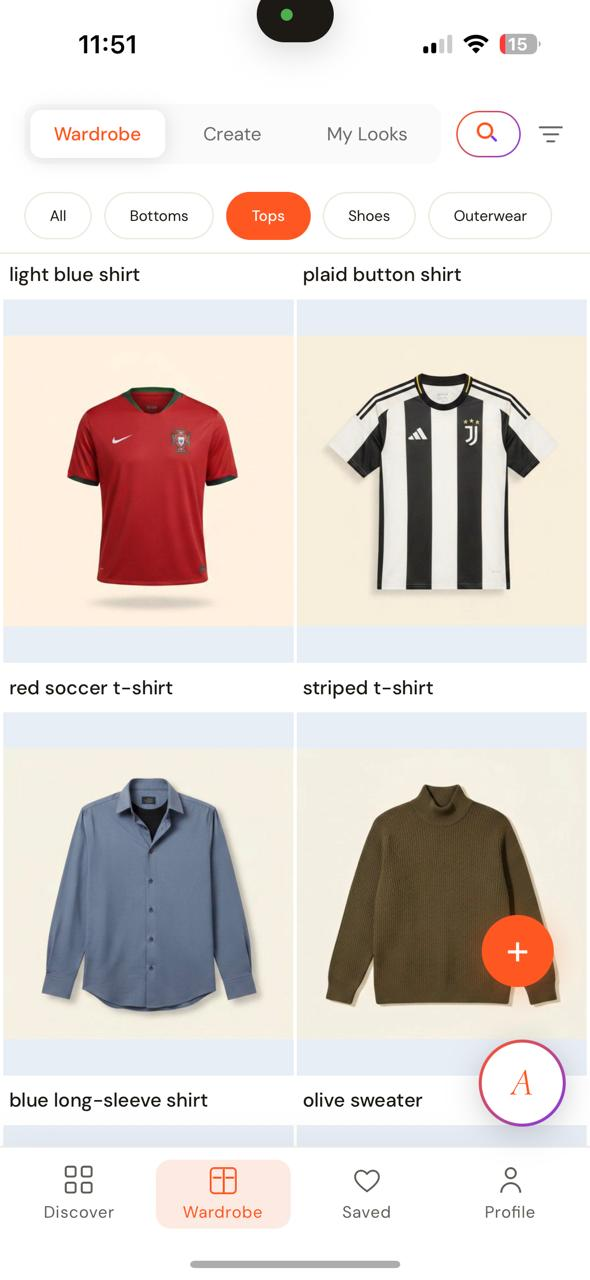
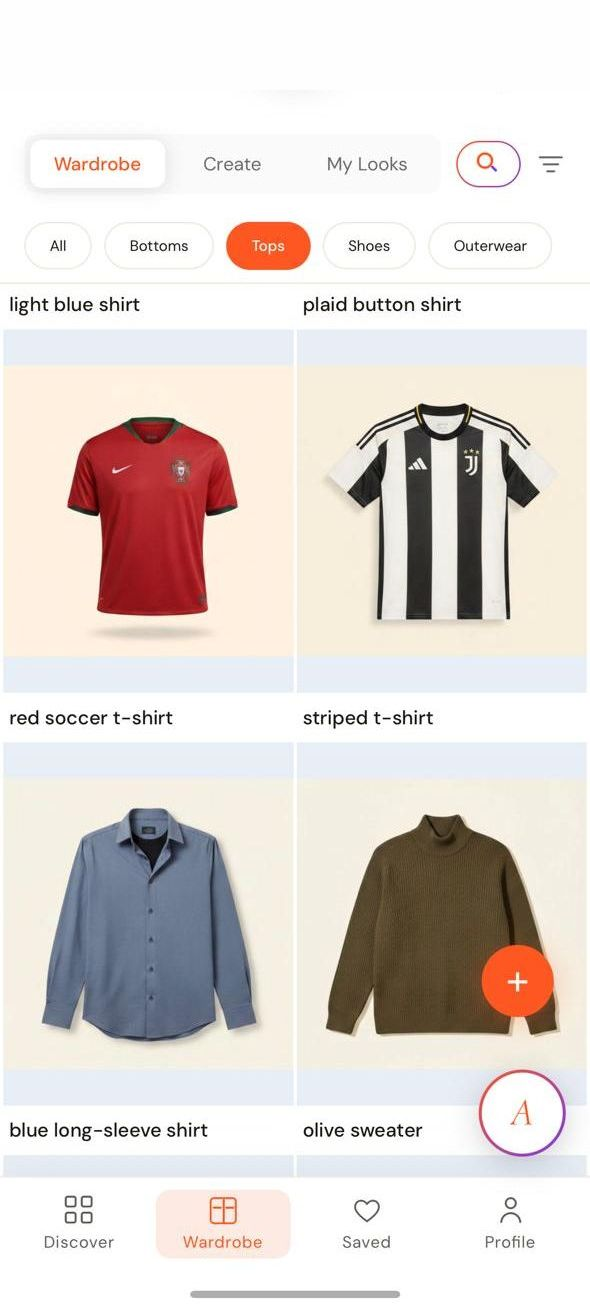
Uniform Dynamic Island across feature-section screenshots
The five app screenshots were captured on different devices, so their baked-in
chrome was inconsistent (3 had no notch, Wardrobe a small Dynamic Island, Aira a
large one inside a full device bezel).

- Add scripts/crop-shots.js: crops the baked-in status bar / island / bezel off
  each master in assets/raw/ and pads the top back with the screenshot's own color,
  writing the result to assets/. Re-runnable from masters (crops never compound).
- Draw one uniform Dynamic Island in CSS (.device__screen::after) that floats over
  every screen identically.
- Cache-bust: device-shot images ?v=2, styles.css ?v=26; fix img width/height.

diff --git a/index.html b/index.html
@@ -32,7 +32,7 @@
   <link rel="preconnect" href="https://fonts.googleapis.com" />
   <link rel="preconnect" href="https://fonts.gstatic.com" crossorigin />
   <link href="https://fonts.googleapis.com/css2?family=Cormorant+Garamond:ital,wght@0,300;0,400;0,500;0,600;0,700;1,400;1,500;1,600;1,700&family=DM+Sans:opsz,wght@9..40,200;9..40,300;9..40,400;9..40,500;9..40,700&family=Inria+Serif:ital,wght@0,300;0,400;0,700;1,300;1,400;1,700&family=Jost:wght@300;400;500&display=swap" rel="stylesheet" />
-  <link rel="stylesheet" href="styles.css?v=25" />
+  <link rel="stylesheet" href="styles.css?v=26" />
 
   <!-- preload the LCP hero image (the one that matches this viewport) -->
   <link rel="preload" as="image" media="(max-width: 768px)" href="assets/hero-phone.webp" />
@@ -251,11 +251,11 @@
         <div class="device">
           <div class="device__screen">
             <div class="device__shots" id="screenShots">
-              <img class="device__shot is-active" data-step="0" src="assets/Discover.jpeg" width="738" height="1600" alt="The Attira app — Discover screen" />
-              <img class="device__shot" data-step="1" src="assets/Wardrobe.jpeg" width="738" height="1600" loading="lazy" alt="The Attira app — Wardrobe screen" />
-              <img class="device__shot" data-step="2" src="assets/Aira.png" width="740" height="1600" loading="lazy" alt="The Attira app — Aira, your personal AI stylist" />
-              <img class="device__shot" data-step="3" src="assets/Saved.jpeg" width="738" height="1600" loading="lazy" alt="The Attira app — Saved screen" />
-              <img class="device__shot" data-step="4" src="assets/Profile.jpeg" width="738" height="1600" loading="lazy" alt="The Attira app — Profile screen" />
+              <img class="device__shot is-active" data-step="0" src="assets/Discover.jpeg?v=2" width="738" height="1600" alt="The Attira app — Discover screen" />
+              <img class="device__shot" data-step="1" src="assets/Wardrobe.jpeg?v=2" width="590" height="1310" loading="lazy" alt="The Attira app — Wardrobe screen" />
+              <img class="device__shot" data-step="2" src="assets/Aira.png?v=2" width="740" height="1530" loading="lazy" alt="The Attira app — Aira, your personal AI stylist" />
+              <img class="device__shot" data-step="3" src="assets/Saved.jpeg?v=2" width="738" height="1600" loading="lazy" alt="The Attira app — Saved screen" />
+              <img class="device__shot" data-step="4" src="assets/Profile.jpeg?v=2" width="738" height="1600" loading="lazy" alt="The Attira app — Profile screen" />
             </div>
           </div>
         </div>

diff --git a/scripts/crop-shots.js b/scripts/crop-shots.js
@@ -1,0 +1,50 @@
+// Crop the baked-in OS chrome (status bar / Dynamic Island / device bezel) off the
+// feature-section app screenshots so the site can draw ONE uniform Dynamic Island over
+// all of them (see .device__screen::after in styles.css).
+//
+// Always reads the uncropped masters from assets/raw/ and writes the cropped result to
+// assets/<same name>, so re-running never compounds crops. Tune the px values below and
+// re-run: `node scripts/crop-shots.js`.
+const sharp = require("sharp");
+const path = require("path");
+
+const RAW = path.join(__dirname, "..", "assets", "raw");
+const OUT = path.join(__dirname, "..", "assets");
+
+// crop = px removed from each edge of the master (strips the OS status bar / island / bezel).
+// pad  = px of clean band added back on top, filled with the screenshot's own top color, so the
+//        uniform CSS Dynamic Island (.device__screen::after) floats over empty space, seamlessly.
+const JOBS = [
+  { file: "Discover.jpeg", crop: 70,  cropBottom: 0,  pad: 70 },
+  { file: "Saved.jpeg",    crop: 70,  cropBottom: 0,  pad: 70 },
+  { file: "Profile.jpeg",  crop: 70,  cropBottom: 0,  pad: 70 },
+  { file: "Wardrobe.jpeg", crop: 60,  cropBottom: 0,  pad: 90 },
+  { file: "Aira.png",      crop: 100, cropBottom: 70, pad: 100 },
+];
+
+async function topColor(buf) {
+  const { data, info } = await sharp(buf).removeAlpha().raw().toBuffer({ resolveWithObject: true });
+  const w = info.width, ch = info.channels;
+  let r = 0, g = 0, b = 0, n = 0;
+  for (let y = 0; y < 5; y++) for (let x = 0; x < w; x++) {
+    const i = (y * w + x) * ch; r += data[i]; g += data[i + 1]; b += data[i + 2]; n++;
+  }
+  return { r: Math.round(r / n), g: Math.round(g / n), b: Math.round(b / n) };
+}
+
+(async () => {
+  for (const { file, crop, cropBottom, pad } of JOBS) {
+    const src = path.join(RAW, file);
+    const meta = await sharp(src).metadata();
+    const height = meta.height - crop - cropBottom;
+    const cropped = await sharp(src)
+      .extract({ left: 0, top: crop, width: meta.width, height })
+      .toBuffer();
+    const c = await topColor(cropped);
+    await sharp(cropped)
+      .extend({ top: pad, bottom: 0, left: 0, right: 0, background: { ...c, alpha: 1 } })
+      .toFile(path.join(OUT, file));
+    console.log(`${file}: ${meta.width}x${meta.height} -> ${meta.width}x${height + pad} (crop ${crop}/${cropBottom}, pad ${pad}, band rgb ${c.r},${c.g},${c.b})`);
+  }
+  console.log("done");
+})().catch((e) => { console.error(e); process.exit(1); });

diff --git a/styles.css b/styles.css
@@ -592,6 +592,22 @@ textarea:focus-visible {
    the .is-active class, CSS owns the crossfade in both scroll and click modes */
 .device__shot.is-active { opacity: 1; transform: none; z-index: 1; }
 
+/* Uniform Dynamic Island — every screenshot shows the SAME notch (the baked-in OS
+   status bars / bezels were cropped off the images, see scripts/crop-shots.js). */
+.device__screen::after {
+  content: "";
+  position: absolute;
+  top: 2.4%;
+  left: 50%;
+  transform: translateX(-50%);
+  width: 31%;
+  aspect-ratio: 3.4 / 1;   /* real Dynamic Island proportion */
+  background: #0b0b0d;
+  border-radius: 999px;
+  z-index: 3;
+  pointer-events: none;
+}
+
 /* Discover is a click/tap-driven accordion (no scroll-jacking) — the scroll and
    sticky wrappers are plain pass-through containers at natural height. */
 .discover__scroll { position: relative; }
